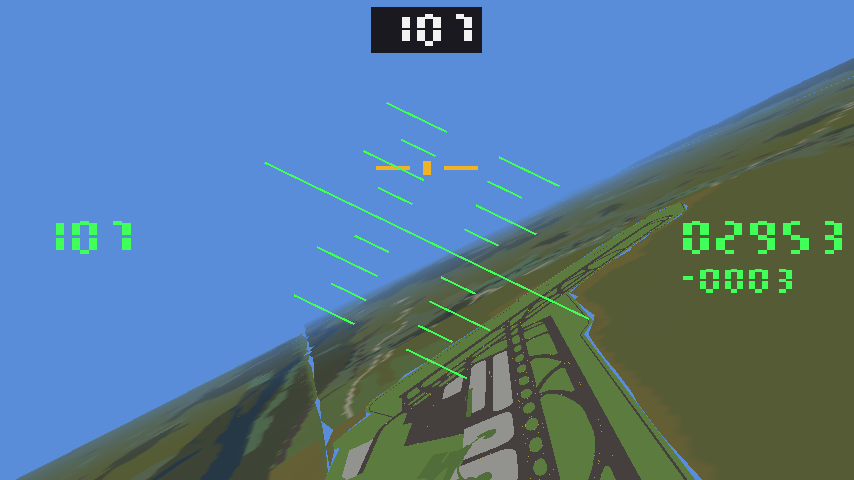
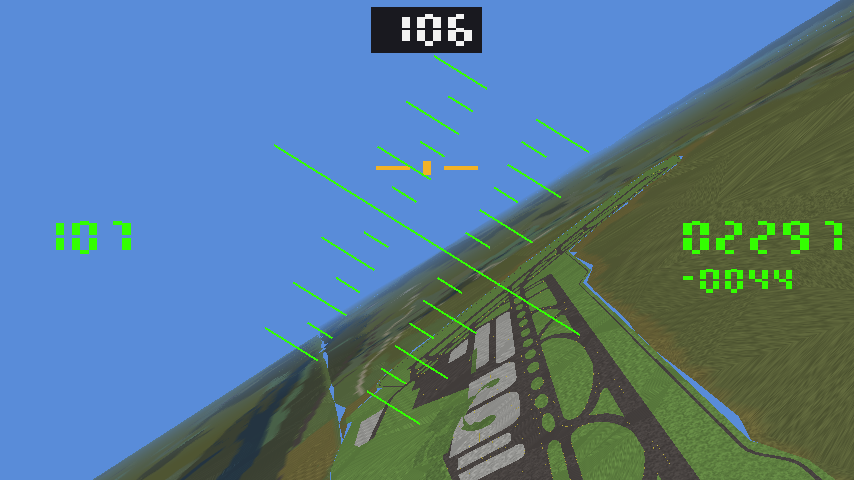
Aus X-Plane abgelesen: HUD-Farbe, Leiter, Knopfbeschriftung, Koernung
Das APK auf dem Baurechner zerlegt statt geraten:
- terrain.glsl: Dunst ist dot(Vertex, fog_matrix), Licht ist Ambient+Diffus,
  und der Boden traegt je Gelaendeart eine wiederholte Textur mit weichem
  Rand.  Unsere Koernung liegt jetzt unter dem gebackenen Bild.
- SIM_HUD_plot() aus libxplane.so: glColor4f(0.2*b, b, 0.0, 1.0) - genau die
  Farbe hat unsere Anzeige jetzt; die Leiter hoert bei 30 Grad auf, wie dort
  der Scissor-Kasten.
- sim_alpha_fly_default.pvr ist RGBA4444 und lesbar: BRAKE/GEAR/FIRE in weiss
  auf dunklem Grund.  Unsere Knoepfe tragen jetzt ebenso ihren Namen.

diff --git a/cockpit/cockpit.c b/cockpit/cockpit.c
@@ -427,11 +427,23 @@ static void build_frame(void) {
        Leiter fuer die Lage, Fahrt links, Hoehe rechts, sonst nichts.  Sie
        sitzt auf der Sicht nach vorn, also in Ansicht 1. */
     if (view_mode == 1) {
-        static const float hud[4] = {0.25f, 1.00f, 0.35f, 1.0f};
+        /* Die Farbe steht so in X-Planes eigenem Bild: der erste Aufruf in
+           `ip_pln_class::SIM_HUD_plot()` ist glColor4f(0.2*Helligkeit,
+           Helligkeit, 0.0, 1.0) - Rot ein Fuenftel, Blau gar nicht.  (Aus der
+           Zerlegung von libxplane.so mit arm-none-eabi-objdump.) */
+        static const float hud[4] = {0.20f, 1.00f, 0.00f, 1.0f};
         horizon_quad(-0.75f, -0.004f, 0.75f, 0.004f, roll, shift, hud);
-        for (int a = 5; a <= 20; a += 5) {
-            hud_rung((float)a, roll, shift, a % 10 ? 0.28f : 0.40f, hud);
-            hud_rung((float)-a, roll, shift, a % 10 ? 0.28f : 0.40f, hud);
+        /* X-Plane zeichnet die Leiter in einem abgeschnittenen Kasten
+           (glScissor, 256 x 128 in seinem Raster) - deshalb laeuft sie dort
+           nicht ueber das ganze Bild.  Wir schneiden beim Bauen ab: was
+           weiter als 30 Grad von der Nase weg liegt, kommt nicht hinein. */
+        for (int a = 5; a <= 30; a += 5) {
+            float pitch_up = fdm.pitch_deg + (float)a;
+            float pitch_dn = fdm.pitch_deg - (float)a;
+            if (pitch_up < 35.0f && pitch_up > -35.0f)
+                hud_rung((float)a, roll, shift, a % 10 ? 0.24f : 0.38f, hud);
+            if (pitch_dn < 35.0f && pitch_dn > -35.0f)
+                hud_rung((float)-a, roll, shift, a % 10 ? 0.24f : 0.38f, hud);
         }
         /* Fahrt links, Hoehe rechts, Steigen darunter - in Ziffern, wie im
            Blickfeld ueblich. */
@@ -489,17 +501,24 @@ static void build_frame(void) {
     rect_ui(0.90f, 0.15f, 0.06f, 0.70f, track);
     rect_ui(0.895f, 0.15f + (1.0f - flaps) * 0.66f, 0.07f, 0.04f, knob);
 
-    /* Fahrwerk links unter dem Schubhebel - wie bei X-Plane; gruen heisst
-       draussen und verriegelt.  Bremse rechts, Ansicht oben links. */
-    rect_ui(0.03f, 0.87f, 0.10f, 0.09f, gear_down ? green : dim);
-    rect_ui(0.755f, 0.885f, 0.11f, 0.09f, brake ? lit : dim);
-    rect_ui(0.14f, 0.03f, 0.13f, 0.08f,
+    /* Die Knoepfe tragen ihren Namen, wie bei X-Plane (dort stehen BRAKE,
+       GEAR und FIRE in weiss auf dunklem Grund - nachgesehen in seinem
+       Bildvorrat `sim_alpha_fly_default.pvr`).  Gruen heisst hier: das
+       Fahrwerk ist draussen, die Bremse ist an. */
+    rect_ui(0.03f, 0.87f, 0.15f, 0.09f, gear_down ? green : dim);
+    text_ui(0.045f, 0.892f, 0.045f, "FAHRW", gear_down ? black : white);
+    rect_ui(0.72f, 0.87f, 0.15f, 0.09f, brake ? lit : dim);
+    text_ui(0.737f, 0.892f, 0.045f, "BREMSE", white);
+    rect_ui(0.14f, 0.03f, 0.15f, 0.08f,
             view_mode == 0 ? dim : (view_mode == 1 ? knob : green));
+    text_ui(0.155f, 0.048f, 0.045f,
+            view_mode == 0 ? "KANZEL" : (view_mode == 1 ? "SICHT" : "AUSSEN"),
+            view_mode == 1 ? black : white);
 
     /* Der Anlasser.  Steht der Motor, leuchtet er gruen und heisst START;
        laeuft er, ist er dunkel und heisst STOP. */
-    rect_ui(0.30f, 0.03f, 0.13f, 0.08f, fdm.engine_on ? dim : green);
-    text_ui(0.315f, 0.048f, 0.048f, fdm.engine_on ? "STOP" : "START",
+    rect_ui(0.31f, 0.03f, 0.13f, 0.08f, fdm.engine_on ? dim : green);
+    text_ui(0.325f, 0.048f, 0.045f, fdm.engine_on ? "STOP" : "START",
             fdm.engine_on ? white : black);
 
     /* Seitenruder: waagrecht unten, federt in die Mitte zurueck.  Am Boden
@@ -1422,12 +1441,12 @@ static void start_flight(void) {
    Bedienung - in der Verfolgersicht blieb zum Drehen nur die Bildmitte. */
 static int on_widget(float x, float y) {
     if (y < 0.115f && x > 0.90f) return 1;                  /* das Kreuz */
-    if (y < 0.13f && x > 0.12f && x < 0.29f) return 1;      /* Ansicht */
-    if (y < 0.13f && x > 0.29f && x < 0.45f) return 1;      /* Anlasser */
+    if (y < 0.13f && x > 0.12f && x < 0.30f) return 1;      /* Ansicht */
+    if (y < 0.13f && x > 0.30f && x < 0.46f) return 1;      /* Anlasser */
     if (x < 0.16f && y > 0.13f && y < 0.87f) return 1;      /* Schubhebel */
     if (x > 0.84f && y > 0.13f && y < 0.87f) return 1;      /* Klappen */
-    if (y > 0.85f && x < 0.15f) return 1;                   /* Fahrwerk */
-    if (y > 0.87f && x > 0.74f && x < 0.88f) return 1;      /* Bremse */
+    if (y > 0.85f && x < 0.20f) return 1;                   /* Fahrwerk */
+    if (y > 0.85f && x > 0.70f && x < 0.89f) return 1;      /* Bremse */
     if (y > 0.90f && x > 0.20f && x < 0.64f) return 1;      /* Seitenruder */
     return 0;
 }
@@ -1441,14 +1460,14 @@ static void touch(int px, int py, int width, int height, int first) {
         if (rudder > 1.0f) rudder = 1.0f;
         return;
     }
-    if (y > 0.85f && x < 0.15f) { if (first) gear_down = !gear_down; return; }
+    if (y > 0.85f && x < 0.20f) { if (first) gear_down = !gear_down; return; }
     if (x < 0.16f) throttle = 1.0f - (y - 0.15f) / 0.70f;
     else if (x > 0.84f) flaps = 1.0f - (y - 0.15f) / 0.70f;
-    else if (y > 0.87f && x > 0.74f && x < 0.88f) { if (first) brake = !brake; }
-    else if (y < 0.13f && x > 0.12f && x < 0.29f) {
+    else if (y > 0.85f && x > 0.70f && x < 0.89f) { if (first) brake = !brake; }
+    else if (y < 0.13f && x > 0.12f && x < 0.30f) {
         if (first) view_mode = (view_mode + 1) % 3;
     }
-    else if (y < 0.13f && x > 0.29f && x < 0.45f) {
+    else if (y < 0.13f && x > 0.30f && x < 0.46f) {
         if (first) fdm.engine_on = !fdm.engine_on;
     }
     if (throttle < 0.0f) throttle = 0.0f;

diff --git a/cockpit/terrain.c b/cockpit/terrain.c
@@ -66,11 +66,18 @@ static const char *TERRAIN_FRAG =
     "uniform lowp vec3 u_col;\n"
     "uniform lowp vec3 u_haze;\n"
     "uniform sampler2D u_tex;\n"
+    "uniform sampler2D u_grain;\n"
     "varying lowp vec2 v_sh;\n"
     "varying mediump vec2 v_uv;\n"
     "varying mediump vec2 v_grain;\n"
     "void main() {\n"
     "  lowp vec3 c = u_col * texture2D(u_tex, v_uv).rgb * v_sh.x;\n"
+    /* X-Plane legt je Gelaendeart eine sich wiederholende Textur unter die
+       Kachel; wir haben nur eine Koernung, aber sie bricht die Flaeche auf -
+       aus der Naehe.  In der Ferne nimmt der Dunst sie wieder weg, sonst
+       flimmert es. */
+    "  lowp float g = texture2D(u_grain, v_grain).r;\n"
+    "  c *= mix(0.78 + 0.44 * g, 1.0, v_sh.y);\n"
     "  gl_FragColor = vec4(mix(c, u_haze, v_sh.y), 1.0);\n"
     "}\n";
 

diff --git a/cockpit/README.md b/cockpit/README.md
@@ -750,6 +750,66 @@ mir gehabt, nur die Beschreibung aus dem APK
 HUD-Knopf oben links) und die übliche Form einer solchen Anzeige. Wenn es
 genauer sein soll, muss X-Plane einmal laufen und sein Bild danebenliegen.
 
+## Was in X-Plane wirklich drinsteht (23.09.2026)
+
+Statt zu raten, wie es dort aussieht: das APK liegt auf dem Baurechner
+(`X-Plane_9 v9.66.apk`), und darin steht alles.
+
+**Der Boden.** `assets/terrain.glsl`, 2,2 KB für den ganzen Simulator:
+
+    vcolor    = light_amb_rgb + light_dif_rgb * max(0, dot(N, light_pos))
+    fog_blend = clamp(dot(Vertex, fog_matrix), 0, 1)
+    OUTPUT(x) = mix(x, fog_color, fog_blend)
+
+Der Dunst ist also eine **Ebenengleichung auf dem Ort** (ein
+`dot` mit einem Vierervektor), nicht die Entfernung zur Kamera — damit geht
+auch Höhendunst. Unserer nimmt `clip.w`; das sieht gleich aus und kostet
+dasselbe. Die Beleuchtung ist Ambient + Diffus, genau wie unsere.
+
+Der eigentliche Unterschied ist die **Textur**: X-Plane legt je Geländeart
+(`apt, city, flat, flat_low, hill, rock1-4, sflat, steep, water`) eine sich
+wiederholende Textur unter die Kachel und blendet an den Grenzen mit einer
+zweiten Textur als Rampe:
+
+    #if BORDER
+      ramp_alpha = texture2D(tex_unit_1, TexCoord1).a;
+      OUTPUT(vec4(tex.xyz, 4.0 * (ramp_alpha - tex.a)))
+
+Wir haben nur **eine** Körnung (die schon erzeugt, aber nie benutzt wurde) —
+die liegt jetzt unter dem gebackenen Bild und wird mit dem Dunst wieder
+ausgeblendet. Die weichen Übergänge zwischen Geländearten wären der nächste
+Schritt.
+
+**Die grüne Anzeige.** `libxplane.so` hat sie als Code, nicht als Bild:
+`ip_pln_class::SIM_HUD_plot()` (0x14f66c, 9 KB) aus `SIM_render_3d_HUD.cpp`.
+Zerlegt mit `arm-none-eabi-objdump` und die Gleitkommazahlen aus dem
+Literalvorrat gelesen:
+
+    glColor4f(0.2*Helligkeit, Helligkeit, 0.0, 1.0)   <- die Farbe
+    glScissor(... 256 x 128 ...)                      <- die Leiter wird
+                                                         abgeschnitten
+    Konstanten: 10, 20 (Sprossen), +-31.82 Grad, 57.2958 (=180/pi),
+                -180/360/180 (Kurs), 100000/100/140 (Höhe, Bänder)
+
+Unsere Anzeige hat daraufhin **X-Planes Farbe** (Rot ein Fünftel, Blau gar
+nicht — vorher war Blau bei 0,35 dabei) und eine Leiter, die bei 30 Grad
+aufhört statt über das ganze Bild zu laufen.
+
+**Die Bedienung.** `assets/sim_alpha_fly_default.pvr` ist **kein** PVRTC,
+sondern RGBA4444 (Flagge 0x10) — also lesbar. Darin: `BRAKE`, `GEAR`, `FIRE`
+als weiße Schrift auf dunklen, abgerundeten Rechtecken, dazu Schieberbahn und
+Knopf, die Ansichtssymbole und `PAUSE (MENU)`.
+
+![X-Planes Bedienteile](xplane-bedienung.png)
+
+Daraufhin tragen unsere Knöpfe jetzt ihren Namen (`BREMSE`, `FAHRW`,
+`KANZEL/SICHT/AUSSEN`, `START`) in derselben Art: Schrift auf dunklem Grund,
+durchscheinend, und weg, sobald die Finger weg sind. Abgerundet sind sie
+nicht — dafür bräuchte es entweder eine Textur oder ein paar Dreiecke mehr je
+Knopf.
+
+![Die grüne Anzeige mit X-Planes Farbe](hud-gruen.png)
+
 ## Was als Nächstes drangehört
 
 1. Ein feineres Bild für die Kachel unter einem (2048 statt 512).
